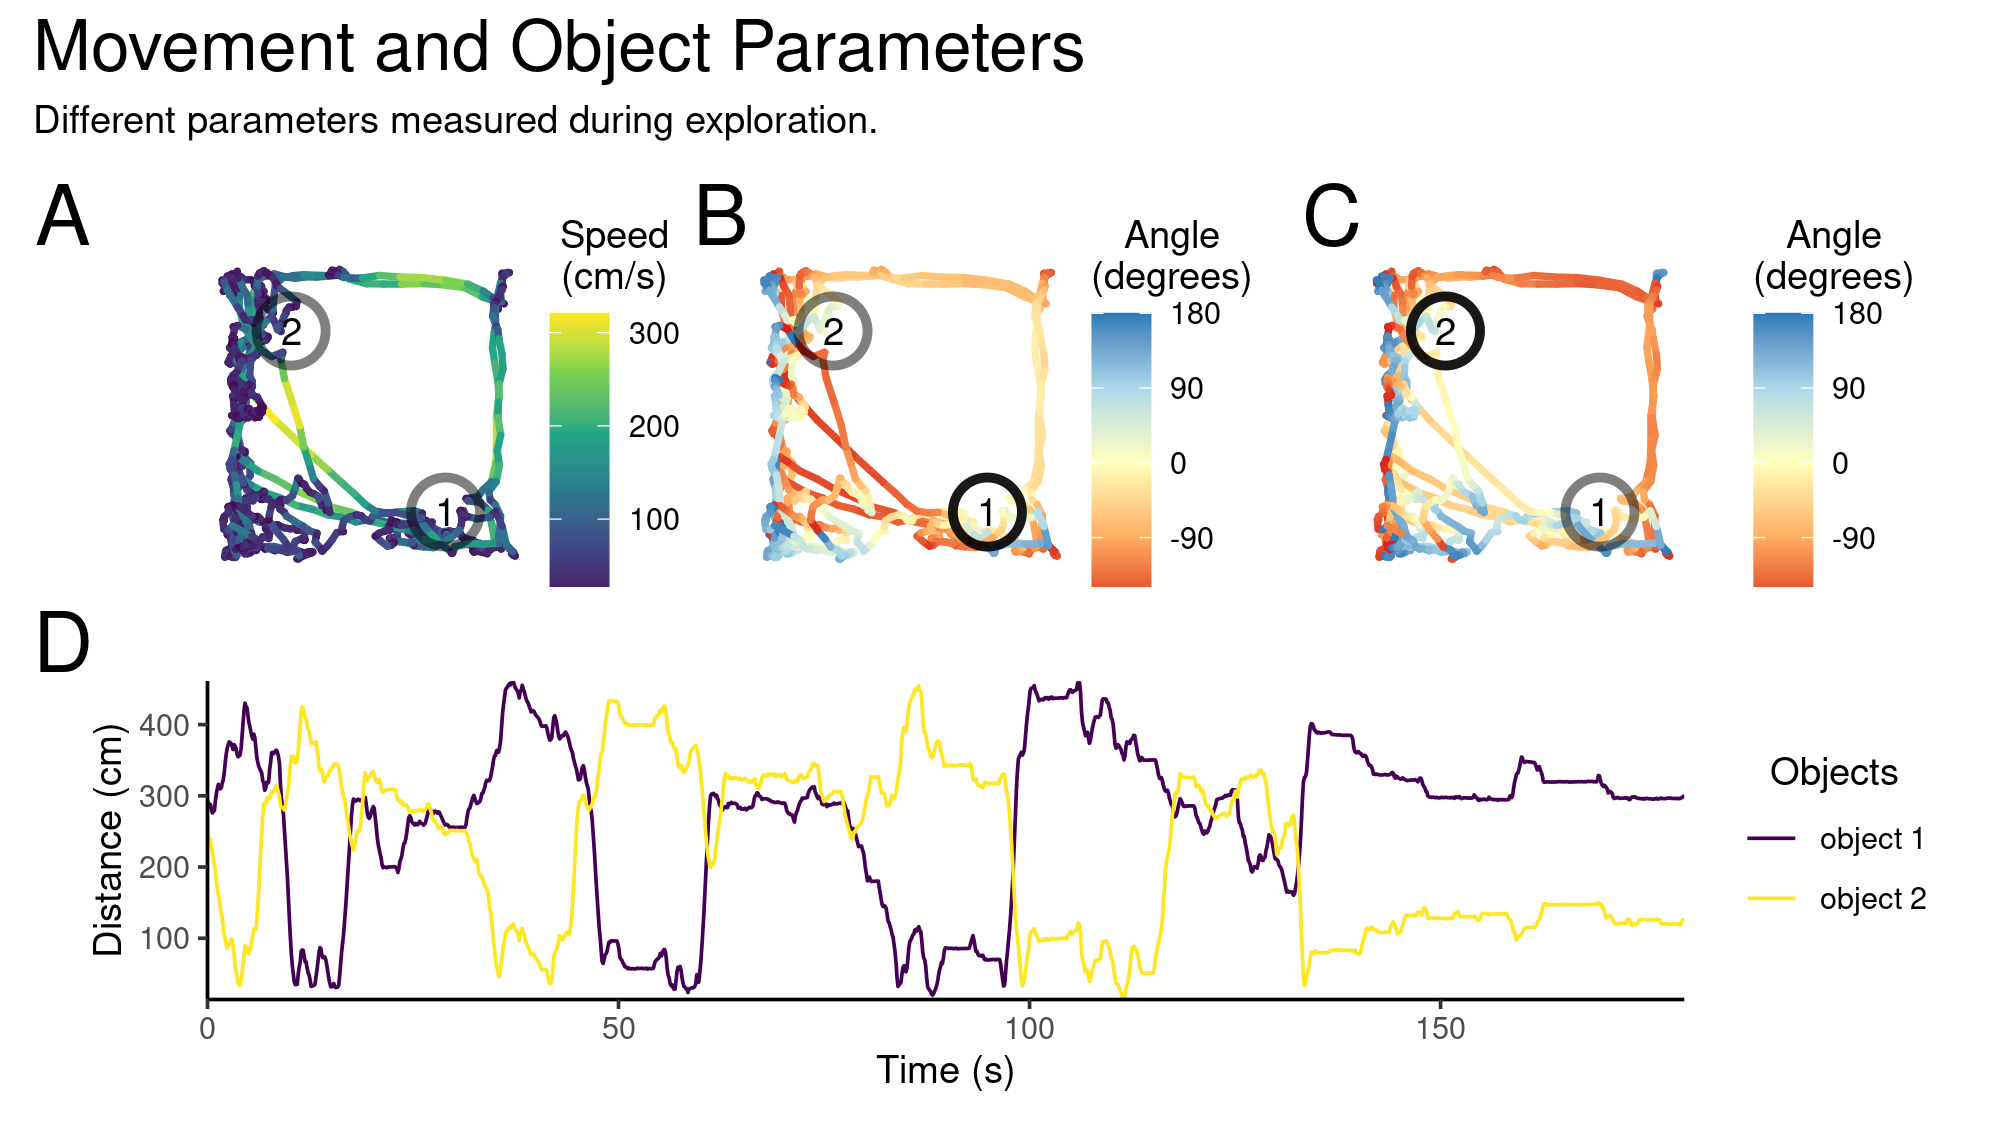
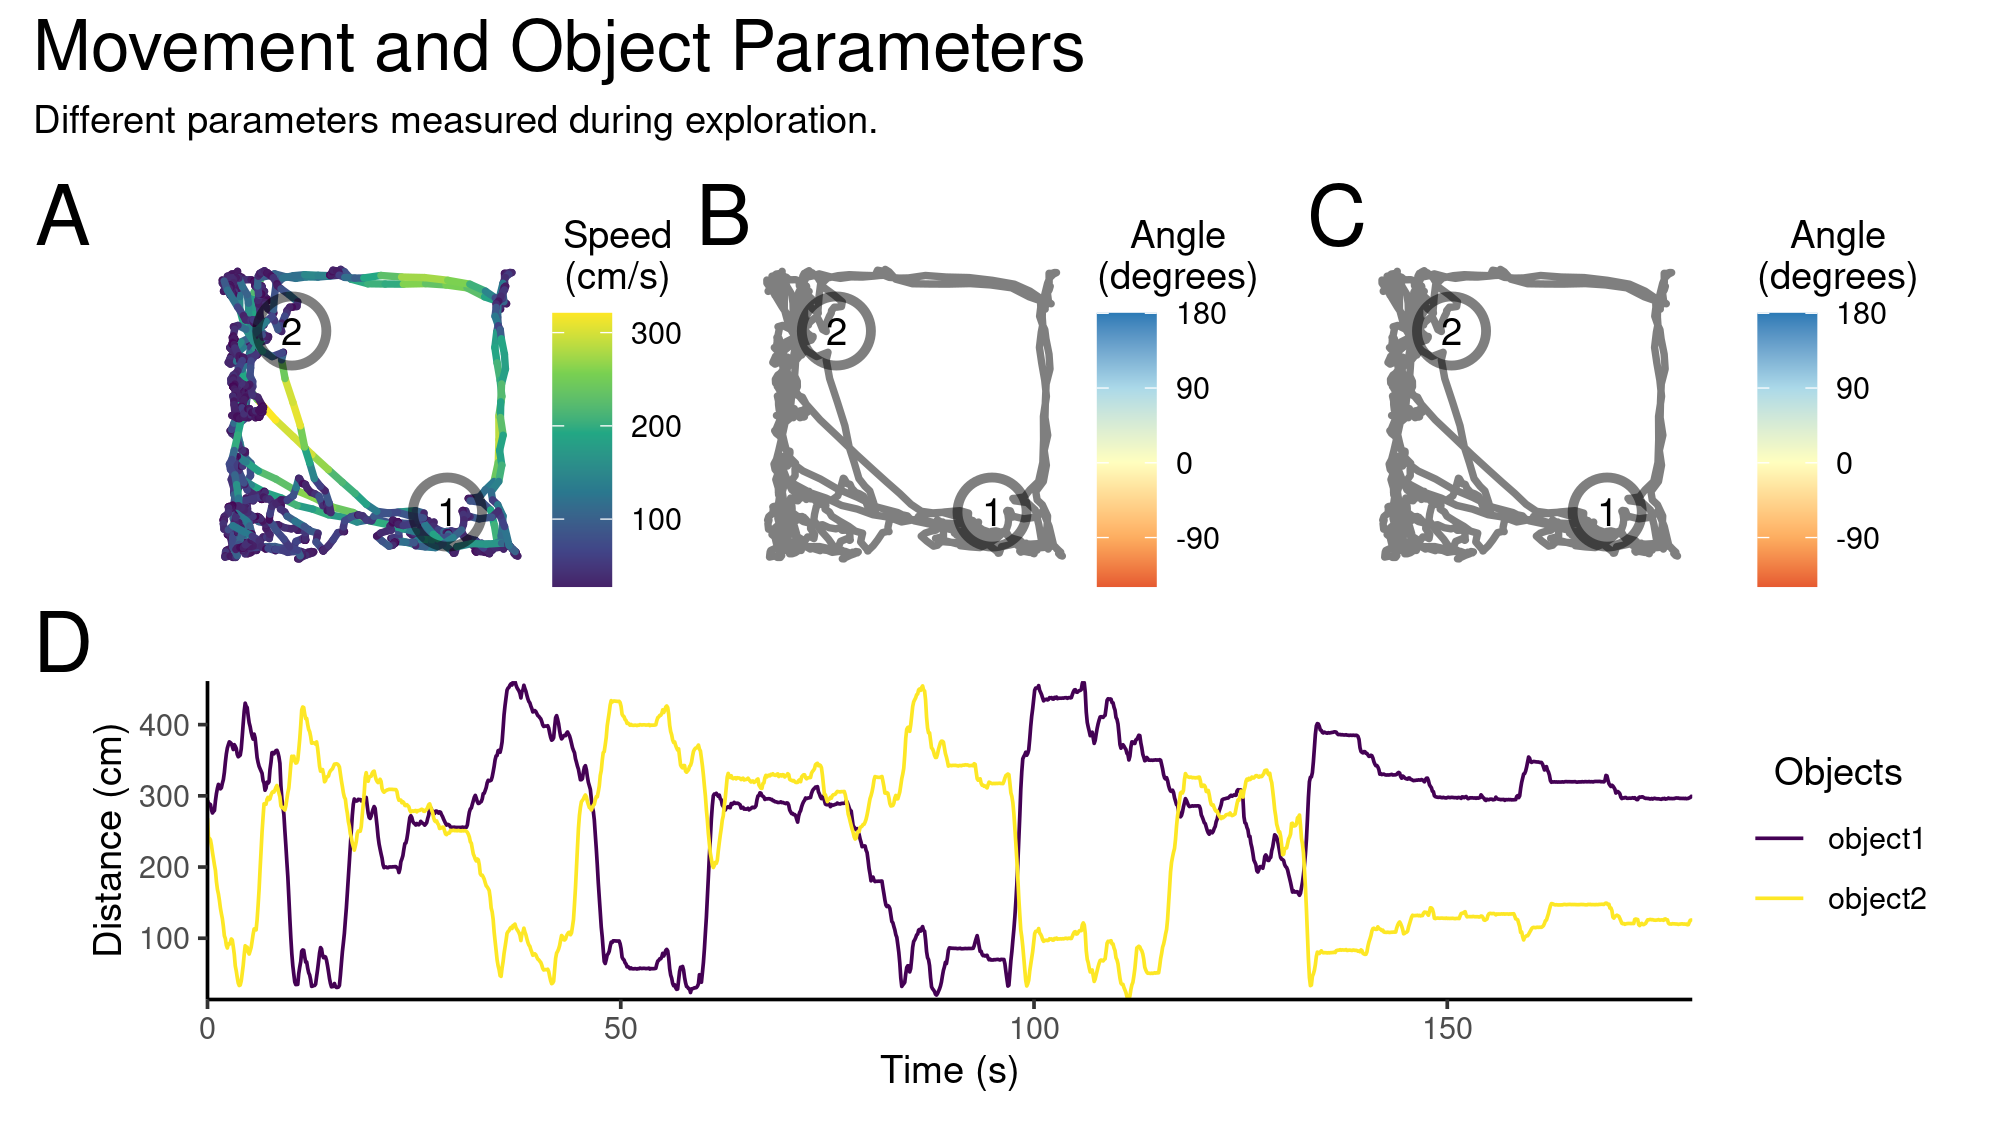
update documentation

diff --git a/README.md b/README.md
@@ -5,7 +5,7 @@ README
 
 The newest version of the package can be downloaded via
 `devtools::install_github(repo = "danielparthier/BehaviourAnalysis", ref
-= "package")`.
+= "package", dependencies = T)`.
 
 The task in the video is based on the *Novel-Object Recognition Task*.
 Therefore, we have two objects in the arena which are explored by the
@@ -51,7 +51,7 @@ library(data.table)
 MouseBodyList <- list()
 MouseBodyList$head <- c("ear", "nose")
 MouseBodyList$body <- c("ear", "tail")
-ObjectList <- list("object")
+ObjectList <- list("object1", "object2")
 
 MouseDataTable <- DeepLabCutLoad(FileName = FileName,
                                  FrameRate = FrameRate,
@@ -105,19 +105,18 @@ DistSpeedCalc(CoordTable = MouseDataTable$DataTable,
               Interval = 1/FrameRate)
 AddCentroid(CoordTable = MouseDataTable$DataTable,
             CornerNames = list("ear"),
-            ReferenceColumn = "frame",
             OutputName = "BetweenEars")
 VectorLength(CoordTable = MouseDataTable$DataTable,
              VectorStart = "tailbase",
              VectorEnd = "BetweenEars",
              OutputName = "BodyLength")
 AngleCalc(CoordTable = MouseDataTable$DataTable,
-          VectorStart = "BetweenEars",
-          VectorEnd = "nose",
+          VectorStart1 = "BetweenEars",
+          VectorEnd1 = "nose",
           OutputName = "HeadAngle")
 AngleCalc(CoordTable = MouseDataTable$DataTable,
-          VectorStart = "tailbase",
-          VectorEnd = "BetweenEars",
+          VectorStart1 = "tailbase",
+          VectorEnd1 = "BetweenEars",
           OutputName = "BodyAngle")
 AngleDiff(CoordTable = MouseDataTable$DataTable,
           Angle1 = "BodyAngle",
@@ -138,11 +137,9 @@ of an object or can reduce noise.
 ``` r
 ObjectDistance(CoordTable = MouseDataTable$DataTable,
                ObjectTable = MouseDataTable$ObjectTable,
-               ObjectLabels = ObjectList,
                Ref = "headCentroid")
 ObjectAngle(CoordTable = MouseDataTable$DataTable,
             ObjectTable = MouseDataTable$ObjectTable,
-            ObjectLabels = ObjectList,
             Ref = "headCentroid")
 VectorLength(CoordTable = MouseDataTable$DataTable,
              VectorStart = "nose",
@@ -150,7 +147,6 @@ VectorLength(CoordTable = MouseDataTable$DataTable,
              OutputName = "headLength")
 AddCentroid(CoordTable = MouseDataTable$DataTable,
             CornerNames = list("ear"),
-            ReferenceColumn = "frame",
             OutputName = "BetweenEars")
 ```
 
@@ -196,26 +192,23 @@ plots are implemented with colour blind friendly colour schemes.
 
 ``` r
 # Plot functions
-SpeedPlot <- SpeedPlot(DataTable = MouseDataTable$DataTable,
+SpeedPlot <- SpeedPlot(CoordTable = MouseDataTable$DataTable,
                        Speed = "SpeedbodyCentroid",
-                       x = "headCentroid_x",
-                       y = "headCentroid_y",
+                       CoordRef = "headCentroid",
                        ObjectTable = MouseDataTable$ObjectTable,
                        Unit = "cm/s")
 
-DensityPlot <- LocationPlot(DataTable = MouseDataTable$DataTable,
-                            x = "headCentroid_x",
-                            y = "headCentroid_y",
+DensityPlot <- LocationPlot(CoordTable = MouseDataTable$DataTable,
+                            CoordRef = "headCentroid",
                             ObjectTable = MouseDataTable$ObjectTable,
                             Density = T)
 
 
 if(ObjectNumber>0) {
   ObjectAnglePlots <- lapply(X = 1:ObjectNumber, FUN = function(objID) {
-    AnglePlot(DataTable = MouseDataTable$DataTable,
+    AnglePlot(CoordTable = MouseDataTable$DataTable,
               Angle = paste0("object_",objID,"_HeadAngle_Angle"),
-              x = "headCentroid_x",
-              y = "headCentroid_y",
+              CoordRef = "headCentroid",
               ObjectTable = MouseDataTable$ObjectTable,
               colourScheme = "light",
               ObjectHighlight = "alpha")
@@ -223,27 +216,26 @@ if(ObjectNumber>0) {
 }
 
 
-SpeedPlotLine <- SpeedPlot(DataTable = MouseDataTable$DataTable,
+SpeedPlotLine <- SpeedPlot(CoordTable =  MouseDataTable$DataTable,
                            Speed = "SpeedbodyCentroid",
                            Unit = "cm/s")
 
-DistancePlotLine <- DistancePlot(DataTable = MouseDataTable$DataTable,
+DistancePlotLine <- DistancePlot(CoordTable = MouseDataTable$DataTable,
                                  Distance = "CumDistbodyCentroid",
                                  Unit = "cm")
 
-ObjectDistancePlotLine <- DistancePlot(DataTable = MouseDataTable$DataTable,
+ObjectDistancePlotLine <- DistancePlot(CoordTable = MouseDataTable$DataTable,
                                        Distance = "headCentroid_Distance",
                                        ObjectTable = MouseDataTable$ObjectTable,
                                        ObjectDistance = T,
                                        Unit = "cm")
 
-RearingPlotLine <- LengthPlot(DataTable = MouseDataTable$DataTable,
+RearingPlotLine <- LengthPlot(CoordTable = MouseDataTable$DataTable,
                               Length = "BodyLength")
 
-RearingPlot <- LengthPlot(DataTable = MouseDataTable$DataTable,
+RearingPlot <- LengthPlot(CoordTable = MouseDataTable$DataTable,
                           Length = "BodyLength",
-                          x = "headCentroid_x",
-                          y = "headCentroid_y",
+                          CoordRef = "headCentroid",
                           ObjectTable = MouseDataTable$ObjectTable) +
   scale_color_viridis_c(guide = guide_colourbar(title = "Rearing", label = FALSE, reverse = T), direction = -1)
 ```
